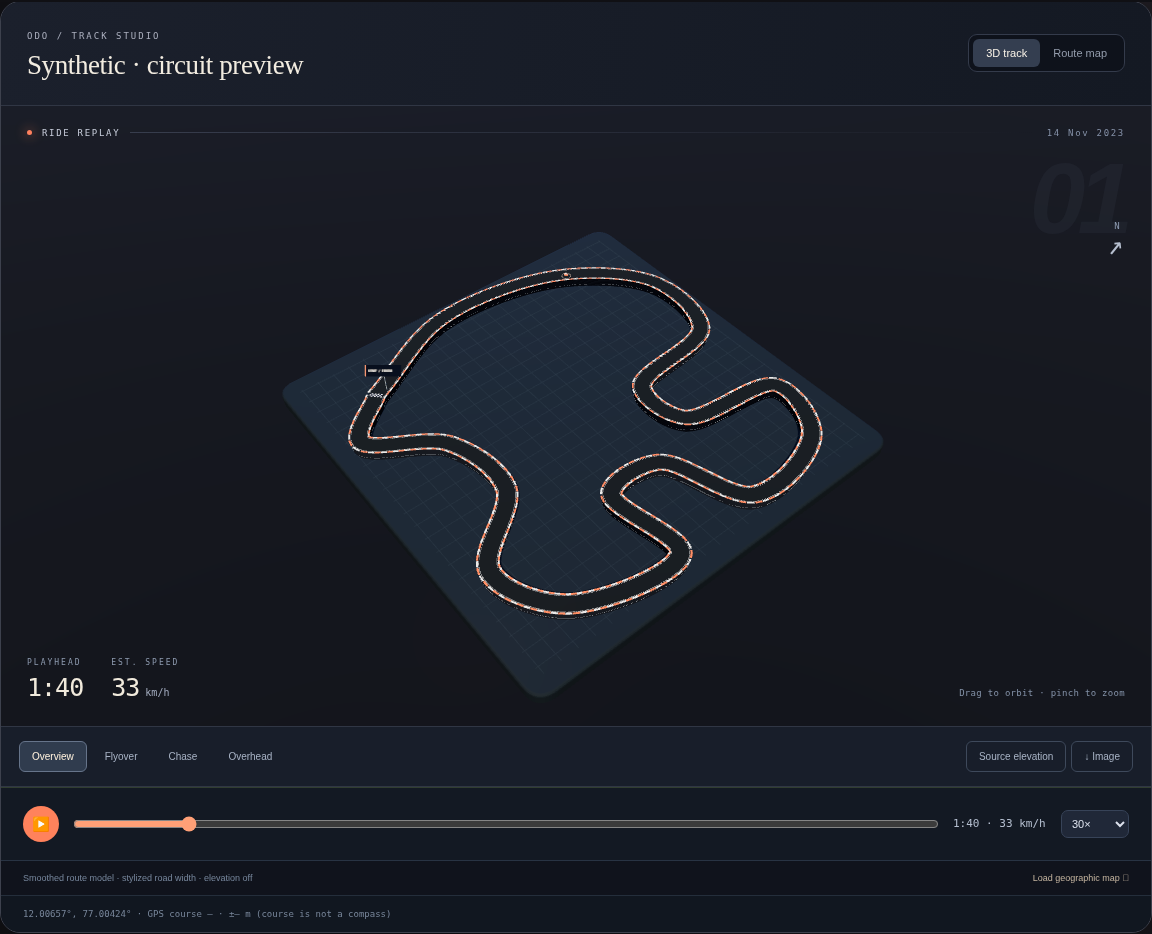
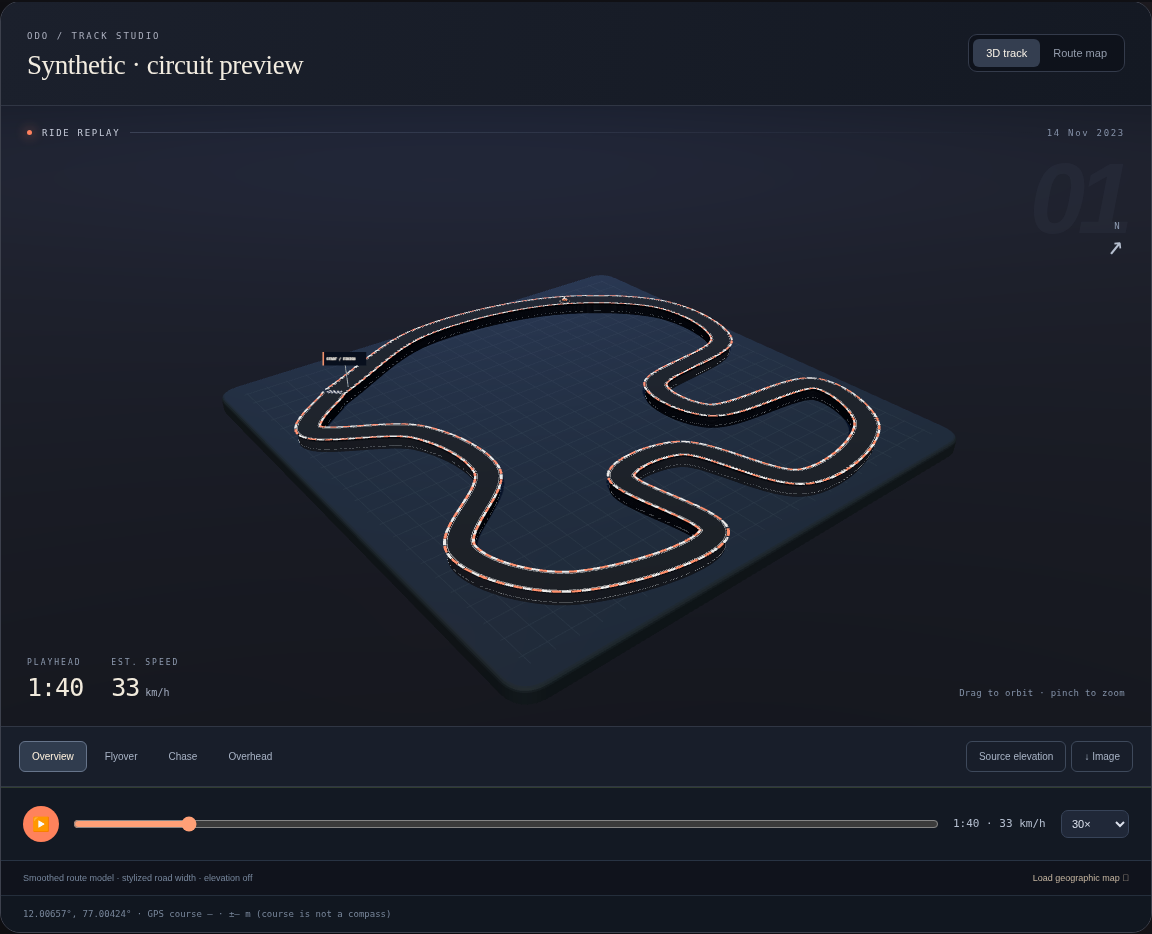
Build motorsport share posters from the offline 3D track renderer

Changed region(s): [[0.1875, 0.2794, 0.8438, 0.6831], [0.4375, 0.7141, 0.5, 0.7452], [0.4062, 0.6831, 0.4375, 0.7141]]

diff --git a/web/story-ui.js b/web/story-ui.js
@@ -1,0 +1,76 @@
+/* Local motorsport posters. Route geometry is included only after an explicit opt-in. */
+function storyLayout(format){
+ const height=({story:1920,portrait:1350,square:1080})[format]||1920;
+ return {width:1080,height,heroTop:height===1080?300:390,heroBottom:height-360};
+}
+function paintStory(canvas,ride,{format,caption,includeRoute,routeImage,accent}){
+ const {width:w,height:h,heroTop,heroBottom}=storyLayout(format),x=canvas.getContext('2d');
+ canvas.width=w;canvas.height=h;
+ const cream='#f3ecda',muted='#a9a8ad',ink='#101219',color=accent==='ice'?'#79dadd':'#ff7554';
+ x.fillStyle=ink;x.fillRect(0,0,w,h);
+ const glow=x.createRadialGradient(940,heroTop+150,0,500,h/2,h);glow.addColorStop(0,'#2a303d');glow.addColorStop(1,ink);x.fillStyle=glow;x.fillRect(0,0,w,h);
+ x.strokeStyle='#ffffff09';x.lineWidth=1;for(let i=80;i<w;i+=80){x.beginPath();x.moveTo(i,0);x.lineTo(i,h);x.stroke();}
+ x.fillStyle=color;x.fillRect(54,57,10,79);x.fillStyle=cream;x.font='800 82px Arial,sans-serif';x.fillText('odo',86,124);
+ x.font='18px monospace';x.textAlign='right';x.fillStyle=muted;x.fillText('THE RIDER’S JOURNAL',1026,86);x.fillStyle=color;x.fillText('RECORD / REPLAY / REMEMBER',1026,121);x.textAlign='left';
+ // A compact finish-line device gives the series its visual signature.
+ for(let row=0;row<2;row++)for(let col=0;col<12;col++){x.fillStyle=(row+col)%2?cream:'#313641';x.fillRect(54+col*11,161+row*11,11,11);}
+ x.strokeStyle='#ffffff28';x.beginPath();x.moveTo(208,172);x.lineTo(1026,172);x.stroke();
+ const words=(caption.trim()||'A DAY, WELL RIDDEN').toUpperCase().split(/\s+/);
+ let titleSize=h===1080?70:92,lines=[];const baseline=h===1080?245:280;
+ for(;;){let line='';lines=[];x.font=`italic 900 ${titleSize}px Arial,sans-serif`;
+  for(const word of words){const candidate=line?line+' '+word:word;if(x.measureText(candidate).width>965&&line){lines.push(line);line=word;}else line=candidate;}if(line)lines.push(line);
+  if((lines.length<=2&&baseline+(lines.length-1)*titleSize*.94<heroTop-12)||titleSize<=36)break;titleSize-=2;
+ }
+ x.fillStyle=cream;for(let i=0;i<Math.min(2,lines.length);i++)x.fillText(lines[i],54,baseline+i*titleSize*.94,970);
+ const heroHeight=heroBottom-heroTop;
+ if(includeRoute){
+  if(routeImage){x.save();x.beginPath();x.roundRect(40,heroTop,1000,heroHeight,24);x.clip();x.drawImage(routeImage,40,heroTop,1000,heroHeight);x.restore();}
+  else{
+   // The same gap-aware/dateline-aware projection used by the app is the fallback.
+   const geometry=OdoRouteGeometry.project(ride.track||[],{width:900,height:Math.max(120,heroHeight-90),padding:30});
+   x.save();x.translate(90,heroTop+30);x.lineCap='round';x.lineJoin='round';
+   x.strokeStyle='#020509';x.lineWidth=20;x.stroke(new Path2D(geometry.path));x.strokeStyle=cream;x.lineWidth=12;x.stroke(new Path2D(geometry.path));x.strokeStyle=color;x.lineWidth=5;x.stroke(new Path2D(geometry.path));x.restore();
+  }
+  x.fillStyle=color;x.font='16px monospace';x.fillText(routeImage?'ROUTE / 3D STUDY':'ROUTE / 2D STUDY',64,heroTop+30);
+  x.fillStyle=muted;x.font='14px monospace';x.fillText(routeImage?'STYLIZED ROAD · ELEVATION OFF':'RECORDED ROUTE · GAPS PRESERVED',64,heroBottom-18);
+ }else{
+  x.save();x.beginPath();x.rect(0,heroTop,w,heroHeight);x.clip();x.translate(40,heroTop+heroHeight*.43);x.rotate(-.09);
+  x.font=`italic 900 ${h===1080?145:185}px Arial,sans-serif`;x.fillStyle=color;x.fillText('CHASE THE',0,0,1000);x.fillStyle=cream;x.fillText('FEELING.',0,h===1080?135:170,1000);
+  x.strokeStyle='#ffffff1a';x.lineWidth=2;for(let i=0;i<5;i++){x.beginPath();x.moveTo(0,205+i*13);x.lineTo(1000,205+i*13);x.stroke();}x.restore();
+ }
+ const safe=OdoAnalysis.safeShare(ride),isGpx=ride.source==='GPX export',mapped=isGpx&&Number.isFinite(ride.distanceKm)?Math.round(ride.distanceKm*10)/10:safe.distanceKm;
+ const metricY=h-294;x.fillStyle='#f3ecda';x.fillRect(54,metricY,972,2);x.fillStyle=color;x.fillRect(54,metricY,140,4);
+ x.font='16px monospace';x.fillStyle=muted;x.fillText('THE RIDE, IN NUMBERS',54,metricY+37);
+ x.font='700 100px Arial,sans-serif';x.fillStyle=cream;x.fillText(mapped===null?'—':String(mapped),54,h-125,430);x.fillText(String(safe.durationMinutes),600,h-125,400);
+ x.fillStyle=muted;x.font='18px monospace';x.fillText(isGpx?'MAPPED KM / ESTIMATE':'KM / GPS ESTIMATE',54,h-88);x.fillText('MIN / RECORDED',600,h-88);
+ x.strokeStyle='#ffffff25';x.beginPath();x.moveTo(540,metricY+64);x.lineTo(540,h-85);x.stroke();
+ x.fillStyle=color;x.fillRect(0,h-40,w,40);x.fillStyle=ink;x.font='bold 15px monospace';x.fillText('YOUR WORLD. RIDDEN YOUR WAY.',54,h-14);x.textAlign='right';x.fillText('ODO / RIDE ARCHIVE',1026,h-14);x.textAlign='left';
+}
+shareCard=function(){
+ const ride=current();if(!ride)return toast('Import a journey first.');
+ modal(`<div class="story-editor-head"><span class="eyebrow">ODO / POSTER STUDIO</span><h2>Your ride. Cover-worthy.</h2><p class="subtle">A race-weekend look for the road you rode.</p></div><div class="story-editor"><div class="story-options"><label>Headline<input id="story-title" value="A DAY, WELL RIDDEN" maxlength="35"></label><label>Format<select id="story-format"><option value="story">Story · 9:16</option><option value="portrait">Portrait · 4:5</option><option value="square">Square · 1:1</option></select></label><label>Edition<select id="story-accent"><option value="race">Race orange</option><option value="ice">Ice blue</option></select></label><label class="check"><input id="story-route" type="checkbox"> Include my route as a 3D track</label><p class="tiny">Route shapes can reveal places, even without map labels. No route is included until you choose it.</p><p class="tiny" id="story-status" role="status">Typography edition · route hidden</p><div class="actions"><button data-action="close">Close</button><button id="story-download" class="primary">${window.RideNative?.shareStory?'Share image':'Download PNG'}</button></div></div><div class="story-preview"><canvas id="story-canvas" aria-label="Share poster preview"></canvas></div></div>`);
+ const dialog=$('#modal');dialog.classList.add('story-modal');let closed=false,generation=0;const images=new Map();
+ const close=()=>{closed=true;generation++;dialog.classList.remove('story-modal');dialog.removeEventListener('close',close);};dialog.addEventListener('close',close);
+ async function routeImage(format){
+  if(images.has(format))return images.get(format);
+  const {heroTop,heroBottom}=storyLayout(format),host=document.createElement('div');host.style.cssText=`position:fixed;left:-12000px;top:0;width:1000px;height:${heroBottom-heroTop}px;pointer-events:none`;host.setAttribute('aria-hidden','true');document.body.append(host);
+  let scene;try{scene=OdoTrackScene.create(host,ride);const data=scene.snapshot(),img=new Image();img.src=data;await img.decode();images.set(format,img);return img;}catch(error){images.set(format,null);return null;}finally{scene?.dispose();host.remove();}
+ }
+ async function draw(){
+  const version=++generation,format=$('#story-format').value,includeRoute=$('#story-route').checked,caption=$('#story-title').value,accent=$('#story-accent').value,canvas=$('#story-canvas'),button=$('#story-download');
+  button.disabled=includeRoute&&!images.has(format);$('#story-status').textContent=button.disabled?'Preparing your track poster…':includeRoute?'Route included':'Typography edition · route hidden';
+  paintStory(canvas,ride,{format,caption,includeRoute:false,accent});
+  const image=includeRoute?await routeImage(format):null;if(closed||version!==generation)return;
+  paintStory(canvas,ride,{format,caption,includeRoute,routeImage:image,accent});button.disabled=false;
+  $('#story-status').textContent=includeRoute?(image?'3D track edition · source elevation off':'2D route edition · 3D unavailable on this device'):'Typography edition · route hidden';
+ }
+ $('#story-route').onchange=draw;$('#story-title').oninput=draw;$('#story-format').onchange=draw;$('#story-accent').onchange=draw;draw();
+ $('#story-download').onclick=()=>{
+  const canvas=$('#story-canvas');
+  if(window.RideNative?.shareStory){try{window.RideNative.shareStory(canvas.toDataURL('image/png'));}catch(error){toast('Image sharing failed: '+error.message);}return;}
+  canvas.toBlob(async blob=>{if(!blob)return toast('Image export failed.');const file=new File([blob],'odo-ride.png',{type:'image/png'});
+   if(navigator.canShare?.({files:[file]})){try{await navigator.share({files:[file],title:'My Odo ride'});return;}catch(error){if(error.name==='AbortError')return;}}
+   const a=document.createElement('a');a.href=URL.createObjectURL(blob);a.download=file.name;a.click();setTimeout(()=>URL.revokeObjectURL(a.href),10000);
+  },'image/png');
+ };
+};

diff --git a/web/studio.js b/web/studio.js
@@ -9,7 +9,7 @@ const originalImportFiles=importFiles;
 importFiles=async function(files){const gpx=files.filter(f=>/\.gpx$/i.test(f.name)),zips=files.filter(f=>!/\.gpx$/i.test(f.name));try{for(const f of gpx){if(f.size>8*1024*1024)throw Error('GPX files must be under 8 MB.');const doc=new DOMParser().parseFromString(await f.text(),'application/xml');if(doc.querySelector('parsererror'))throw Error('Invalid GPX XML.');const segments=[...doc.getElementsByTagNameNS('*','trkseg')];const samples=segments.flatMap((s,segment)=>[...s.getElementsByTagNameNS('*','trkpt')].map(p=>({lon:p.hasAttribute('lon')?Number(p.getAttribute('lon')):NaN,lat:p.hasAttribute('lat')?Number(p.getAttribute('lat')):NaN,time:Date.parse(p.getElementsByTagNameNS('*','time')[0]?.textContent),altitude:p.getElementsByTagNameNS('*','ele')[0]?.textContent,segment})));const r=OdoPortable.fromPoints(samples,f.name);await saveRide(r);selected=r.id;}if(zips.length)await originalImportFiles(zips);else{navigate('journeys');toast('GPX imported locally. Source accuracy and bike sensors are unknown.');}}catch(e){toast(e.message);}finally{input.value='';}};
 function contextDialog(){const r=current();if(!r)return toast('Import a ride first.');modal(`<h2>The setup behind the signal</h2><p class="subtle">Bike type and phone placement help Odo explain uncertainty. They do not calibrate lean or braking force.</p><form id="context-form"><label>Bike for this ride<input name="bike_id" maxlength="100" required value="${esc(r.bike_id||prefs.bike.name)}"></label><label>Bike type<select name="bike_type">${['Unknown','Adventure','Sport','Touring','Roadster','Cruiser','Scooter','Off-road'].map(x=>`<option ${r.bike_type===x?'selected':''}>${x}</option>`).join('')}</select></label><label>Phone placement<select name="placement">${['Unknown','Pocket','Bag','Rigid mount'].map(x=>`<option ${r.placement===x?'selected':''}>${x}</option>`).join('')}</select></label><label>Mount condition<select name="mount_condition">${['Unknown','Stable','Slipping','Not mounted'].map(x=>`<option ${r.mount_condition===x?'selected':''}>${x}</option>`).join('')}</select></label><p class="tiny">For repeatable comparisons use the same phone, bike, mount and travel direction. A stable mount still requires a validated calibration before reporting bike lean.</p><button class="primary section">Save context</button></form>`);$('#context-form').onsubmit=async e=>{e.preventDefault();Object.assign(r,Object.fromEntries(new FormData(e.target)));await saveRide(r);$('#modal').close();render();};}
 function memoryDialog(){const r=current();if(!r)return toast('Import a ride first.');modal(`<h2>Road memory</h2><p class="subtle">These are candidates, not detected road defects. Label only what you remember.</p>${r.events.length?r.events.slice(0,40).map(e=>`<label class="section">${clock(e.t)} · ${esc(e.confidence)}<select data-memory="${e.id}">${['Not sure','Speed breaker','Rough patch','Pothole','Phone moved','Other'].map(x=>`<option ${r.roadMemory?.[e.id]===x?'selected':''}>${x}</option>`).join('')}</select></label>`).join(''):'<p>No sensor candidates in this recording. GPX imports contain no raw phone motion.</p>'}<div class="actions"><button data-action="close">Done</button></div>`);$$('[data-memory]').forEach(el=>el.onchange=async()=>{r.roadMemory={...r.roadMemory,[el.dataset.memory]:el.value};await saveRide(r);toast('Your observation saved on this device.');});}
-shareCard=function(){const r=current();if(!r)return toast('Import a journey first.');modal(`<h2>Your ride. Cover-worthy.</h2><p class="subtle">A motorsport poster, built from your ride. Exact locations are excluded by default.</p><label class="check"><input id="story-route" type="checkbox"> Include route silhouette (the shape can reveal places)</label><label>Headline<input id="story-title" value="A DAY, WELL RIDDEN" maxlength="35"></label><label>Format<select id="story-format"><option value="story">Story · 9:16</option><option value="portrait">Portrait · 4:5</option><option value="square">Square · 1:1</option></select></label><canvas id="story-canvas" style="width:100%;max-height:480px;object-fit:contain;margin-top:20px"></canvas><div class="actions"><button data-action="close">Close</button><button id="story-download" class="primary">Download PNG</button></div>`);const draw=()=>{const s=OdoAnalysis.safeShare(r),c=$('#story-canvas');c.width=1080;c.height=({story:1920,portrait:1350,square:1080})[$('#story-format').value];const x=c.getContext('2d'),h=c.height;x.fillStyle='#101014';x.fillRect(0,0,1080,h);x.strokeStyle='#28282d';x.lineWidth=2;for(let i=-h;i<1080;i+=90){x.beginPath();x.moveTo(i,0);x.lineTo(i+h,h);x.stroke();}x.fillStyle='#ff6243';x.fillRect(60,75,80,12);x.fillStyle='#f2eddf';x.font='bold 88px sans-serif';x.fillText('odo',60,190);x.font='22px monospace';x.fillText('YOUR WORLD, RIDDEN.',60,245);if($('#story-route').checked&&r.track.length>1){const xs=r.track.map(p=>p[0]),ys=r.track.map(p=>p[1]),loX=Math.min(...xs),hiX=Math.max(...xs),loY=Math.min(...ys),hiY=Math.max(...ys),cos=Math.cos((loY+hiY)/2*Math.PI/180),scale=Math.min(820/Math.max((hiX-loX)*cos,.00001),(h-650)/Math.max(hiY-loY,.00001));x.save();x.strokeStyle='#ff6848';x.shadowColor='#ff6848';x.shadowBlur=22;x.lineWidth=7;x.beginPath();r.track.forEach((p,i)=>{const px=540+(p[0]-(loX+hiX)/2)*cos*scale,py=h/2-(p[1]-(loY+hiY)/2)*scale;if(!i||p[7]!==r.track[i-1][7])x.moveTo(px,py);else x.lineTo(px,py);});x.stroke();x.restore();}else{x.save();x.translate(70,h*.51);x.rotate(-.10);x.font='900 135px sans-serif';x.fillStyle='#ff6243';x.fillText('RIDE.',0,0);x.fillStyle='#f2eddf';x.fillText('REMEMBER.',0,145);x.restore();}x.font='bold 38px sans-serif';x.fillStyle='#f2eddf';x.fillText($('#story-title').value,60,h-300,950);x.font='bold 90px monospace';x.fillText(s.distanceKm===null?'—':String(s.distanceKm),60,h-175);x.fillText(String(s.durationMinutes),600,h-175);x.font='24px monospace';x.fillStyle='#b2b0b8';x.fillText('KM / GPS ESTIMATE',60,h-125);x.fillText('MIN / RECORDED',600,h-125);x.font='20px monospace';x.fillText('PRIVATE BY DEFAULT. MADE FOR THE RIDE.',60,h-45);};$('#story-route').onchange=draw;$('#story-title').oninput=draw;$('#story-format').onchange=draw;draw();$('#story-download').textContent=window.RideNative?.shareStory?'Share image':'Download PNG';$('#story-download').onclick=()=>{if(window.RideNative?.shareStory){window.RideNative.shareStory($('#story-canvas').toDataURL('image/png'));return;}$('#story-canvas').toBlob(async blob=>{if(!blob)return toast('Image export failed.');const f=new File([blob],'odo-ride.png',{type:'image/png'});if(navigator.canShare?.({files:[f]})){try{await navigator.share({files:[f],title:'My Odo ride'});return;}catch(e){if(e.name==='AbortError')return;}}const a=document.createElement('a');a.href=URL.createObjectURL(blob);a.download=f.name;a.click();setTimeout(()=>URL.revokeObjectURL(a.href),10000);});};};
+
 document.addEventListener('click',e=>{const action=e.target.closest('button')?.dataset.action;if(action==='setup-context')contextDialog();if(action==='road-memory')memoryDialog();});
 const originalSettings=settings;
 settings=function(){return originalSettings()+`<section class="panel pad section"><h2>Odo, within reach</h2><p class="subtle">An opt-in Android bubble opens the companion over your other apps. Drag to reposition; use × or the notification to dismiss. Use after parking.</p>${window.RideNative?'<button data-action="native-bubble">Enable Android companion bubble</button>':'<p class="tiny">Available in the Android app. iOS and web do not support an always-on overlay across other apps.</p>'}<p class="tiny">Chat requires a configured HTTPS companion gateway. Overlay behavior still needs on-device validation.</p></section>`;};

diff --git a/web/track-studio.css b/web/track-studio.css
@@ -1,3 +1,4 @@
 .track-studio{border-radius:20px;overflow:hidden;border:1px solid #3d414d;background:#10131c;box-shadow:0 28px 70px #0004}.track-studio-head{display:flex;justify-content:space-between;align-items:center;gap:18px;padding:24px 26px;background:linear-gradient(100deg,#1b202c,#141923);border-bottom:1px solid #303644}.track-studio-head .eyebrow{font:9px monospace;letter-spacing:2px;color:#aaaebd}.track-studio-head h2{font:27px Georgia,serif;margin:8px 0 0;color:#f2ece0}.track-view-switch{display:flex;padding:4px;background:#0e121b;border:1px solid #343b4b;border-radius:9px;flex-shrink:0}.track-view-switch button{padding:8px 13px;border:0;background:none;border-radius:6px;font-size:11px;color:#939cac}.track-view-switch button[aria-pressed=true]{background:#343e50;color:#f7f1e6}.track-viewport{position:relative;height:530px;isolation:isolate;background:#10131c;overflow:hidden}.track-viewport.track-large{height:620px}.track-canvas{position:absolute;inset:0}.track-canvas canvas{display:block;width:100%;height:100%;outline-offset:-4px}.track-canvas .map-offline{width:100%;height:100%;background:#10131c}.track-broadcast{position:absolute;left:26px;right:26px;top:22px;display:flex;align-items:center;gap:10px;pointer-events:none;color:#c7ccda;font:9px monospace;letter-spacing:1.7px}.track-live-dot{width:5px;height:5px;background:#ff815e;box-shadow:0 0 12px #ff815e;border-radius:50%}.track-broadcast-rule{height:1px;flex:1;background:linear-gradient(90deg,#65708966,transparent)}.track-broadcast span:last-child{color:#8490a7;font-size:9px}.track-number{position:absolute;right:26px;top:42px;font:italic 800 100px/1 Arial,sans-serif;letter-spacing:-8px;color:#75849e12;pointer-events:none}.track-hud{position:absolute;bottom:24px;left:26px;display:flex;gap:28px;align-items:end;pointer-events:none}.track-hud>div>span{font:8px monospace;letter-spacing:2px;color:#8d9aaf;display:block;margin-bottom:6px}.track-hud strong{font:500 25px monospace;letter-spacing:-1px;color:#f1eadc;display:block}.track-hud small{font:10px monospace;color:#a1aabd;letter-spacing:0}.track-gap{color:#ffaf92;font:10px monospace;background:#462b25;border:1px solid #87543f;padding:9px}.track-orbit-hint{position:absolute;bottom:28px;right:26px;color:#8290a6;font:9px monospace;letter-spacing:.3px;pointer-events:none}.track-north{position:absolute;right:26px;top:115px;display:flex;flex-direction:column;align-items:center;font:9px monospace;color:#8c9ab0;pointer-events:none}.track-north span{font-size:27px;color:#b6bfcf}.track-director{display:flex;justify-content:space-between;gap:10px;padding:14px 18px;border-block:1px solid #303644;background:#181e2a}.track-director>div{display:flex;gap:5px;align-items:center}.track-director button{font-size:10px;padding:9px 12px;border-radius:6px;background:none;color:#a8b3c5;border:1px solid transparent;white-space:nowrap}.track-director button:hover{background:#293447}.track-director button[aria-pressed=true]{border-color:#66748a;background:#303c4e;color:#fff1dd}.track-director .track-actions button{border-color:#3e495b}.track-playbar{background:#131923;padding:14px 22px}.track-playbar>button{background:#ff825c;color:#191b22;border:0;border-radius:50%;width:36px;height:36px;padding:0;flex-shrink:0}.track-playbar select{width:68px;background:#202838;border-color:#374358;color:#dce1ec;font-size:11px;padding:6px}.track-playbar input[type=range]{accent-color:#ffa077}.track-playbar .timeline-readout{font-family:monospace;color:#b4becf}.track-footnote{display:flex;justify-content:space-between;align-items:center;padding:12px 22px;gap:12px;color:#76869c;font-size:9px;border-top:1px solid #283343}.track-footnote button{padding:0;border:0;background:none;font-size:9px;color:#c4b49f}.track-studio .map-control-note{background:#111720;color:#78869a;border-top:1px solid #242e3b;font:9px/1.6 monospace;padding:11px 22px}.track-fallback{position:absolute;top:55px;left:20px;right:20px;padding:12px;background:#2c2530;color:#f0d4c5;border:1px solid #63515e;font-size:12px}.track-studio [hidden]{display:none!important}@media(max-width:700px){.track-studio-head{padding:18px 16px;align-items:start}.track-studio-head h2{font-size:22px;overflow-wrap:anywhere}.track-view-switch button{font-size:9px;padding:8px}.track-viewport,.track-viewport.track-large{height:490px}.track-broadcast{top:20px;left:18px;right:18px;font-size:8px}.track-broadcast span:last-child{font-size:8px}.track-number{font-size:80px;right:20px;top:52px}.track-north{right:20px;top:140px}.track-hud{left:18px;bottom:24px;gap:25px}.track-hud strong{font-size:23px}.track-orbit-hint{bottom:82px;right:18px;font-size:8px}.track-director{flex-wrap:wrap;padding:12px}.track-director>div{justify-content:space-between;flex:1}.track-director button{padding:8px 10px;font-size:10px}.track-director .track-actions{justify-content:flex-start}.track-playbar{padding:14px 12px;gap:8px}.track-playbar .timeline-readout{min-width:75px;font-size:9px}.track-playbar select{width:57px}.track-footnote{padding:12px 16px;align-items:start;line-height:1.7}.track-footnote>span{max-width:65%}.track-footnote button{max-width:90px;text-align:right}.track-studio .map-control-note{padding:10px 16px}.track-studio{border-radius:16px}}
 
 @media(max-width:700px){.track-director button{min-height:44px}.track-view-switch button{min-height:40px}}
+.story-modal{width:min(1000px,calc(100% - 24px));max-width:1000px;background:#17191f}.story-editor-head h2{font:32px Georgia,serif;margin-top:10px}.story-editor{display:grid;grid-template-columns:minmax(240px,1fr) minmax(260px,1.15fr);gap:30px;margin-top:24px;align-items:start}.story-options{display:grid;gap:18px}.story-options .actions{margin-top:4px;justify-content:start}.story-options .check{align-items:start;line-height:1.6;padding:0}.story-options .tiny{margin:0;line-height:1.7}.story-options input[type=checkbox]{margin-top:4px;min-width:18px;height:18px}.story-preview{background:#0c0e13;border:1px solid #333945;border-radius:12px;padding:12px;display:flex;justify-content:center}.story-preview canvas{width:100%;max-height:65vh;object-fit:contain;display:block}.story-options input,.story-options select{background:#11151d;border-color:#3b4250}.story-modal .actions button{min-height:44px}@media(max-width:650px){.story-editor{grid-template-columns:1fr;gap:20px}.story-editor-head h2{font-size:27px}.story-preview{order:-1}.story-preview canvas{max-height:48vh}.story-options{gap:14px}.story-modal{padding:20px}.story-options .actions{position:sticky;bottom:0;background:#17191f;padding:12px 0;margin-bottom:-6px}}

diff --git a/web/track-scene.js b/web/track-scene.js
@@ -66,12 +66,13 @@ function create(container,ride,{onState=()=>{},onUnavailable=()=>{}}={}){
   }
   return distance*1.045;
  }
- function size(){const w=container.clientWidth,h=container.clientHeight;if(!w||!h)return;renderer.setSize(w,h,false);camera.aspect=w/h;camera.updateProjectionMatrix();if(mode==='orbit'||mode==='top')radius=fit();}
- function reset(){mode='orbit';azimuth=-.68;polar=.74;target.set(0,0,0);radius=fit();}
+ function size(){const w=container.clientWidth,h=container.clientHeight;if(!w||!h)return;renderer.setSize(w,h,false);camera.aspect=w/h;camera.updateProjectionMatrix();if(mode==='orbit')polar=camera.aspect>1.6?1.04:.74;if(mode==='orbit'||mode==='top')radius=fit();}
+ function reset(){mode='orbit';azimuth=-.68;polar=camera.aspect>1.6?1.04:.74;target.set(0,0,0);radius=fit();}
  function preset(name){mode=name;if(name==='top'){polar=.03;azimuth=0;target.set(0,0,0);radius=fit();}else if(name==='orbit'){reset();}else if(name==='follow'){polar=.96;radius=85;}}
  const observer=new ResizeObserver(size);observer.observe(container);size();
+ function placeCamera(){camera.position.set(target.x+radius*Math.sin(polar)*Math.sin(azimuth),target.y+radius*Math.cos(polar),target.z+radius*Math.sin(polar)*Math.cos(azimuth));camera.lookAt(target);}
  function animate(now){if(disposed)return;frame=requestAnimationFrame(animate);if(document.hidden||!container.isConnected||now-last<30)return;const dt=Math.min(.1,(now-last)/1000);last=now;if(mode==='follow'){target.lerp(new T.Vector3(rider.position.x,rider.position.y,rider.position.z),.09);azimuth+=Math.atan2(Math.sin(rider.rotation.y+Math.PI-azimuth),Math.cos(rider.rotation.y+Math.PI-azimuth))*.045;}else if(mode==='cinematic'&&!dragging&&!matchMedia('(prefers-reduced-motion: reduce)').matches){azimuth+=dt*.075;target.lerp(new T.Vector3(0,0,0),.05);radius+=(fit()-radius)*.03;polar+=(.95-polar)*.03;}
- camera.position.set(target.x+radius*Math.sin(polar)*Math.sin(azimuth),target.y+radius*Math.cos(polar),target.z+radius*Math.sin(polar)*Math.cos(azimuth));camera.lookAt(target);renderer.render(scene,camera);const north=container.parentElement.querySelector('.track-north span');if(north)north.style.transform=`rotate(${-azimuth}rad)`;}
+ placeCamera();renderer.render(scene,camera);const north=container.parentElement.querySelector('.track-north span');if(north)north.style.transform=`rotate(${-azimuth}rad)`;}
  const pointers=new Map();let pinch=0;
  const down=e=>{renderer.domElement.setPointerCapture(e.pointerId);pointers.set(e.pointerId,[e.clientX,e.clientY]);dragging=true;if(pointers.size===2){const [a,b]=[...pointers.values()];pinch=Math.hypot(a[0]-b[0],a[1]-b[1]);}};
  const move=e=>{const prev=pointers.get(e.pointerId);if(!prev)return;const dx=e.clientX-prev[0],dy=e.clientY-prev[1];pointers.set(e.pointerId,[e.clientX,e.clientY]);if(pointers.size===2){const [a,b]=[...pointers.values()],distance=Math.hypot(a[0]-b[0],a[1]-b[1]);if(pinch>0)radius=Math.max(65,Math.min(1100,radius*pinch/distance));pinch=distance;}else{mode='manual';azimuth-=dx*.006;polar=Math.max(.12,Math.min(1.35,polar+dy*.005));}};
@@ -80,7 +81,7 @@ function create(container,ride,{onState=()=>{},onUnavailable=()=>{}}={}){
  const keyboard=e=>{if(['ArrowLeft','ArrowRight','ArrowUp','ArrowDown','+','-','0'].includes(e.key)){e.preventDefault();mode='manual';if(e.key==='ArrowLeft')azimuth-=.12;if(e.key==='ArrowRight')azimuth+=.12;if(e.key==='ArrowUp')polar=Math.max(.12,polar-.08);if(e.key==='ArrowDown')polar=Math.min(1.35,polar+.08);if(e.key==='+')radius=Math.max(65,radius*.9);if(e.key==='-')radius=Math.min(1100,radius*1.1);if(e.key==='0')reset();}};
  const lost=e=>{e.preventDefault();if(!disposed)onUnavailable();};
  const canvas=renderer.domElement;canvas.addEventListener('webglcontextlost',lost);canvas.addEventListener('pointerdown',down);canvas.addEventListener('pointermove',move);canvas.addEventListener('pointerup',up);canvas.addEventListener('pointercancel',up);canvas.addEventListener('wheel',wheel,{passive:false});canvas.addEventListener('keydown',keyboard);canvas.style.touchAction='none';reset();setTime(time);frame=requestAnimationFrame(animate);
- return {setTime,preset,model,snapshot:()=>{renderer.render(scene,camera);return canvas.toDataURL('image/png');},setElevation(value){elevation=Boolean(value&&model.elevationAvailable);rebuild();if(mode==='orbit'||mode==='top')radius=fit();setTime(time);},dispose(){if(disposed)return;disposed=true;cancelAnimationFrame(frame);observer.disconnect();canvas.removeEventListener('webglcontextlost',lost);canvas.removeEventListener('pointerdown',down);canvas.removeEventListener('pointermove',move);canvas.removeEventListener('pointerup',up);canvas.removeEventListener('pointercancel',up);canvas.removeEventListener('wheel',wheel);canvas.removeEventListener('keydown',keyboard);scene.traverse(o=>{o.geometry?.dispose();if(o.material){for(const material of Array.isArray(o.material)?o.material:[o.material]){material.map?.dispose();material.dispose();}}});renderer.dispose();renderer.forceContextLoss();canvas.remove();}};
+ return {setTime,preset,model,snapshot:()=>{placeCamera();renderer.render(scene,camera);return canvas.toDataURL('image/png');},setElevation(value){elevation=Boolean(value&&model.elevationAvailable);rebuild();if(mode==='orbit'||mode==='top')radius=fit();setTime(time);},dispose(){if(disposed)return;disposed=true;cancelAnimationFrame(frame);observer.disconnect();canvas.removeEventListener('webglcontextlost',lost);canvas.removeEventListener('pointerdown',down);canvas.removeEventListener('pointermove',move);canvas.removeEventListener('pointerup',up);canvas.removeEventListener('pointercancel',up);canvas.removeEventListener('wheel',wheel);canvas.removeEventListener('keydown',keyboard);scene.traverse(o=>{o.geometry?.dispose();if(o.material){for(const material of Array.isArray(o.material)?o.material:[o.material]){material.map?.dispose();material.dispose();}}});renderer.dispose();renderer.forceContextLoss();canvas.remove();}};
 }
 root.OdoTrackScene={create};
 })(window);

diff --git a/web/index.html b/web/index.html
@@ -3,4 +3,4 @@
 <body><aside class="sidebar"><a href="#overview" class="logo" aria-label="Odo home">odo<span>↗</span></a><div class="eyebrow space">YOUR RIDING SPACE</div><nav aria-label="Main navigation" id="nav"></nav><div class="sidebar-bottom"><span class="private-dot"></span> Private by default<p>Your rides. Your business.</p><button data-page="settings" class="profile"><span class="avatar">R</span><span id="profile-name">Your rider profile</span><span>↗</span></button></div></aside>
 <div class="workspace"><header><div><span class="eyebrow" id="breadcrumb">YOUR WORLD, RIDDEN</span><span class="private-badge">◉ Only you</span></div><div class="header-actions"><button id="import-btn" class="quiet">＋ Import rides</button><button id="record-btn" class="primary"><span class="record-dot"></span> Record ride</button></div></header><main id="content"></main><footer>Made for the ride. Built on your evidence.<span>Odo · ride studio</span></footer></div>
 <input id="zip-input" type="file" accept=".zip,application/zip" multiple hidden><input id="photo-input" type="file" accept="image/*" hidden><dialog id="modal"></dialog><div id="toast" role="status" aria-live="polite"></div>
-<script src="vendor/maplibre-gl.js"></script><script src="analysis.js"></script><script src="ride-insights.js"></script><script src="portable.js"></script><script src="companion-transport.js"></script><script src="route-geometry.js"></script><script src="telemetry.js"></script><script src="vendor/three-0.160.1.min.js"></script><script src="track-model.js"></script><script src="track-scene.js"></script><script src="app.js"></script><script src="studio.js"></script><script src="companion.js"></script><script src="companion-ui.js"></script><script src="telemetry-ui.js"></script><script src="track-ui.js"></script></body></html>
+<script src="vendor/maplibre-gl.js"></script><script src="analysis.js"></script><script src="ride-insights.js"></script><script src="portable.js"></script><script src="companion-transport.js"></script><script src="route-geometry.js"></script><script src="telemetry.js"></script><script src="vendor/three-0.160.1.min.js"></script><script src="track-model.js"></script><script src="track-scene.js"></script><script src="app.js"></script><script src="studio.js"></script><script src="companion.js"></script><script src="companion-ui.js"></script><script src="telemetry-ui.js"></script><script src="track-ui.js"></script><script src="story-ui.js"></script></body></html>

diff --git a/docs/CONTINUATION.md b/docs/CONTINUATION.md
@@ -12,14 +12,14 @@ The user explicitly wants iterative improvements to aesthetics and technical dat
 - Ride instrument panel with playhead speed, channel tabs, time-weighted speed histogram, known/unknown interval breakdown and gap-aware charts. GPX estimates are distinguished from unknown source accuracy; source altitude is not claimed as measured ascent.
 - Shared route geometry for thumbnails and replay, including dateline crossings. GPS samples outside the recorded time window are excluded.
 - Timed GPX import with content-based IDs separate from native IDs. Native ZIP import preserves bike/placement/mount metadata and user annotations.
+- Redesigned motorsport poster editor with orange/ice editions and opt-in 3D route models. Exported PNGs inspected at all three aspect ratios.
 - Story PNGs in three formats, explicit route-silhouette opt-in, browser download/share and native Android share-sheet transport through a read-only provider.
 - Meta companion evidence preview, bounded follow-ups and citations; compatible-ride selection requires known matching bike/phone/setup.
 - Authenticated HTTPS gateway with persistent SQLite request reservations; encrypted Android token storage and a draggable chat overlay. These are built and locally tested; live/hardware behavior remains unverified.
 
 ## Next local improvements — no external prerequisites
 
-1. Continue the 3D presentation into motorsport share cards; preserve route privacy defaults and inspect exported images.
-2. Strengthen GPX/XML input handling (missing coordinate attributes, timezone ambiguity, duplicate samples, format-specific error messages), keeping source uncertainty explicit.
+1. Strengthen GPX/XML input handling (missing coordinate attributes, timezone ambiguity, duplicate samples, format-specific error messages), keeping source uncertainty explicit.
 2. Improve chart accessibility and keyboard inspection; keep route, telemetry cursor and visible sample readouts synchronized.
 3. Refine garage, recording-setup and empty-state layouts on narrow screens. Audit contrast and touch targets.
 4. Improve story composition and editable captions; inspect exported images and their privacy defaults.
@@ -40,6 +40,7 @@ node scripts/overlay-smoke.cjs
 node scripts/telemetry-smoke.cjs
 node scripts/library-smoke.cjs
 node scripts/track-smoke.cjs
+node scripts/story-smoke.cjs
 ```
 
 Latest checks: 52 Node tests pass; Android assembly/lint pass with 12 Java tests; browser checks pass for companion, sharing, recording bridge, telemetry, route library and mobile/desktop overflow. Run only checks relevant to each next change. Chromium scripts use synthetic data and mock model responses. Screenshots are temporary review artifacts, not product example rides.

diff --git a/docs/UI-IMPROVEMENT.md b/docs/UI-IMPROVEMENT.md
@@ -39,3 +39,9 @@ Histogram durations are time-weighted and split at speed-band crossings. Native 
 GPX summary cards show mapped distance and estimated interval speeds while stating that fix accuracy is unknown. Empty motion channels and missing raw sensors have explicit empty states. `node scripts/telemetry-smoke.cjs` checks channel selection, timeline seeking, GPX traces, mobile Settings and mobile/desktop overflow. Synthetic traces test the interval calculations; they do not establish real-world sensor accuracy.
 
 The ride library now shows real route thumbnails and explicit import/phone-source labels. A shared local projection keeps thumbnails and replay aligned and unwraps dateline crossings. GPS samples outside recording duration are rejected before entering event evidence. `node scripts/library-smoke.cjs` checks synthetic route thumbnails, long-title wrapping and mobile replay geometry.
+
+## Poster studio
+
+Share cards now have racing typography, finish-line details, orange/ice editions and responsive compositions for all three social formats. The route-free edition is the default. Explicitly enabling the route builds the same offline 3D track model into the poster; WebGL failure uses the shared gap-aware/dateline-aware 2D projection. Source altitude stays off for these exports. No coordinates, dates, bike identifiers or raw samples are printed. GPX mapped distance is rounded and labelled an estimate; unavailable native distance remains blank.
+
+The editor releases its temporary WebGL scene after rendering each format. Downloads and native image sharing use the existing PNG transport. `node scripts/story-smoke.cjs` verifies route opt-in, real 3D image creation, three sizes, two editions, export, mobile layout and cleanup. The exported PNGs were visually reviewed. [Story preview](previews/poster-story-synthetic.png) and [square preview](previews/poster-square-synthetic.png) use the synthetic circuit fixture, not a user recording.
